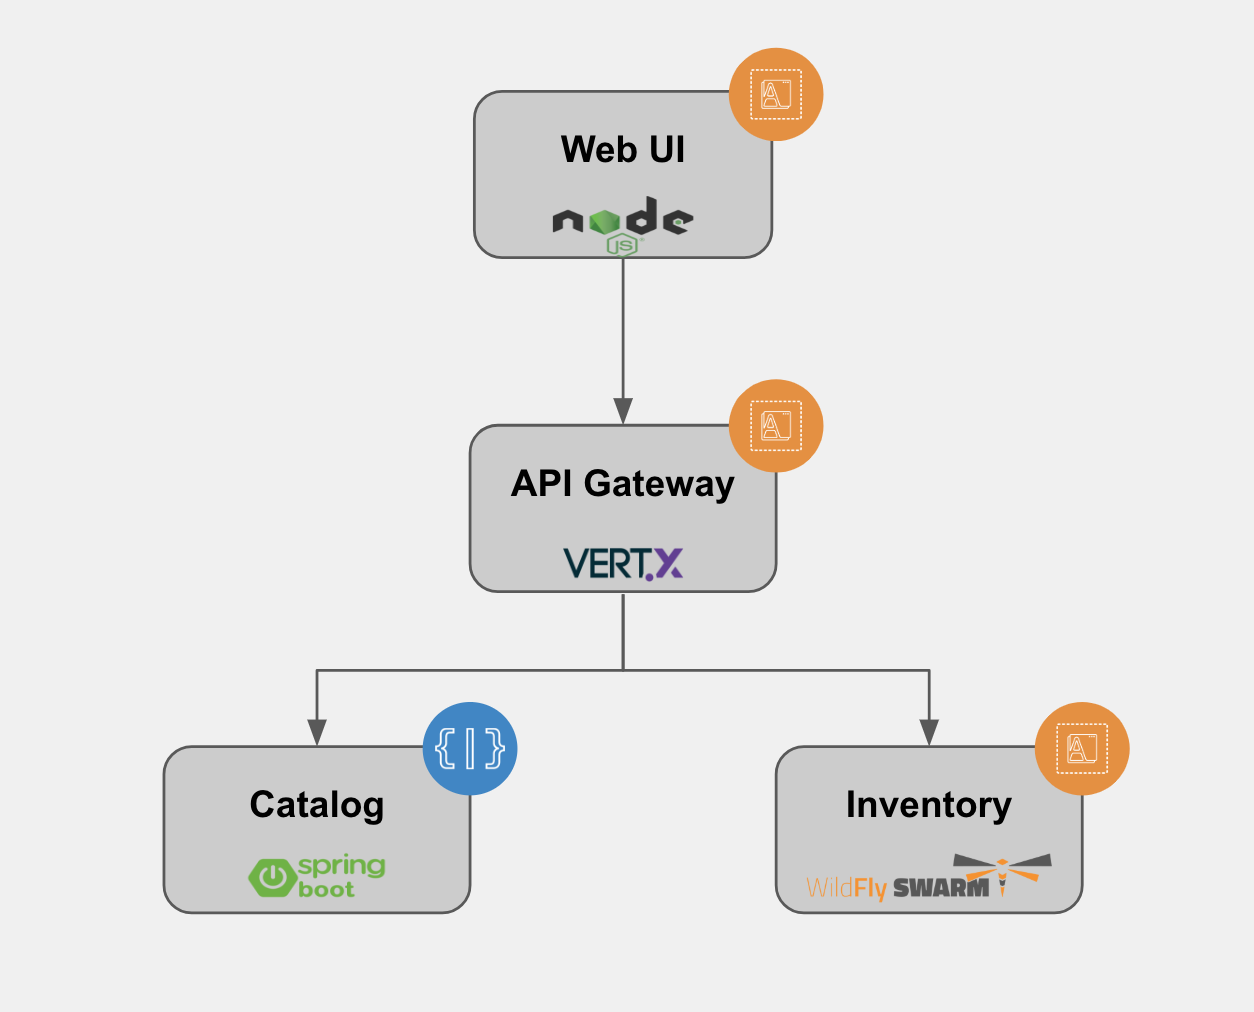
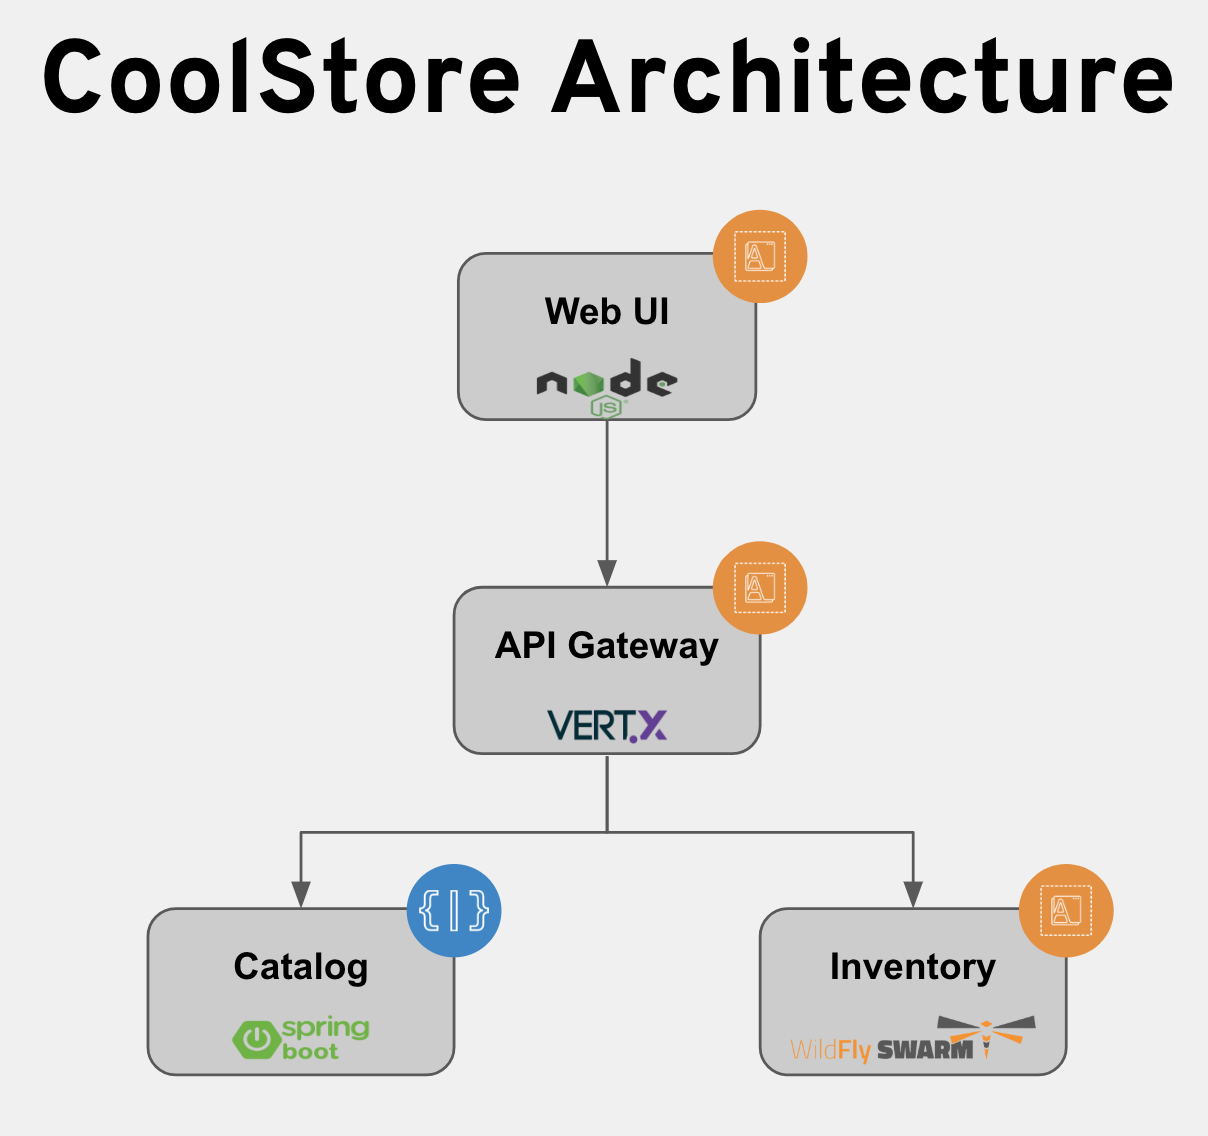
Cleaning Up and taking into account Alex Groom's comments

Changed region(s): [[0.0306, 0.0306, 0.9801, 0.9496], [0.6126, 0.6739, 0.9189, 0.9496]]

diff --git a/deploy-gateway.md b/deploy-gateway.md
@@ -4,11 +4,11 @@ As explained in the introduction at the core of the Cool Store Portal architectu
 
 As we have done previously for the sake of saving time we're going to deploy our 'Gateway' service instead of coding it. But before we actually deploy the service we're going to explain briefly some concepts.
 
+![CoolStore Architecture]({% image_path coolstore-arch-gateway.png %}){:width="400px"}
+
 #### Technology
 
 Our **'API Gateway'** service needed to be easy to scale, light and responsive, these are some of the reasons why we have implemented it as a Vert.x verticle.
-
-> One of the runtimes supported by Red Hat Openshift is Vert.x. 
 
 #### What is Eclipse Vert.x?
 
@@ -46,15 +46,7 @@ Inventory service by building the WildFly Swam uber-jar from source code (build 
 
 Vert.x service discovery integrates into OpenShift service discovery via OpenShift REST API and imports available services to make them available to the Vert.x application. Security in OpenShift comes first and therefore accessing the OpenShift REST API requires the user or the system (Vert.x in this case) to have sufficient permissions to do so. All containers in OpenShift run with a `serviceaccount` (by default, the project `default` service account) which can be used to grant permissions for operations like accessing the OpenShift REST API. You can read more about service accounts in the [OpenShift Documentation]({{OPENSHIFT_DOCS_BASE}}/dev_guide/service_accounts.html) and this [blog post](https://blog.openshift.com/understanding-service-accounts-sccs/#_service_accounts)
 
-Let's grant permission to the API Gateway to be able to access OpenShift REST API and discover services.
-
-> Make sure to replace the project name with your own unique project name
-
-~~~shell
-$ oc policy add-role-to-user view -n {{COOLSTORE_PROJECT}}-{{OPENSHIFT_USER}} -z default
-~~~
-
-Next commands are going to deploy our Inventory service. Please be sure you're at {{COOLSTORE_PROJECT}}-{{OPENSHIFT_USER}} before executing them.
+Next commands are going to deploy our API Gateway service.
 
 * **Name:** gateway
 * **S2I runtime:** redhat-openjdk18-openshift
@@ -83,7 +75,7 @@ gateway     gateway-{{COOLSTORE_PROJECT}}-{{OPENSHIFT_USER}}.roadshow.openshifta
 
 Copy the route url for API Gateway and verify the API Gateway service works using `curl`:
 
-> The route urls in your project would be different from the ones in this lab guide! Use the ones from yor project.
+> The route urls in your project would be different from the ones in this lab guide! Use the ones from your project.
 
 ~~~shell
 $ curl http://{{API_GATEWAY_ROUTE_HOST}}/api/products

diff --git a/deploy-webui.md b/deploy-webui.md
@@ -2,7 +2,7 @@
 
 In this lab you will learn about Node.js and will deploy the Node.js and Angular-based web front+end for the CoolStore online shop which uses the API Gateway services you deployed in previous labs. 
 
-![API Gateway Pattern]({% image_path coolstore-arch.png %}){:width="400px"}
+![CoolStore Architecture]({% image_path coolstore-arch-webui.png %}){:width="400px"}
 
 #### What is Node.js?
 
@@ -22,7 +22,7 @@ The source code for the the Node.js Web front-end is available in this Git repos
 
 Use the OpenShift CLI command to create a new build and deployment for the Web component:
 
-> Feeling adventurous? Build and deploy the Web front-end via the OpenShift Web Console instead. To give you a hint, start by clicking on **Add to project** within the **{{COOLSTORE_PROJECT}}-{{OPENSHIFT_USER}}** project and pick **JavaScript** and then **Node.js** in the service catalog. Don't forget to click on **advanced options** and set **Context Dir** to `web-nodejs` which is the sub-folder of the Git repository where the source code for Web resides.
+> Feeling adventurous? Build and deploy the Web front-end via the OpenShift Web Console instead. To give you a hint, start by clicking on **Catalog** in the left side menu within the **{{COOLSTORE_PROJECT}}-{{OPENSHIFT_USER}}** project then under **Languages** tab, pick **JavaScript** and then **Node.js**. Don't forget to click on **advanced options** and set **Context Dir** to `web-nodejs` which is the sub-folder of the Git repository where the source code for Web resides.
 
 ~~~shell
 $ oc new-app nodejs:8~{{LABS_GIT_REPO}} \
@@ -30,7 +30,7 @@ $ oc new-app nodejs:8~{{LABS_GIT_REPO}} \
         --name=web 
 ~~~
 
-The `--context-dir` option specifies the sub-directly of the Git repository which contains the source code for the application to be built and deployed. The `--labels` allows assigning arbitrary key-value labels to the application objects in order to make it easier to find them later on when you have many applications in the same project.
+The `--context-dir` option specifies the sub-directly of the Git repository which contains the source code for the application to be built and deployed.
 
 A build gets created and starts building the Node.js Web UI container image. You can see the build logs using OpenShift Web Console or OpenShift CLI:
 

diff --git a/deploy-inventory.md b/deploy-inventory.md
@@ -4,6 +4,8 @@ As explained in the introduction we need an Inventory service as part of the Coo
 
 We're going to save time by deploying the 'inventory' service instead of coding it. But before we actually deploy the service we're going to explain briefly some concepts.
 
+![CoolStore Architecture]({% image_path coolstore-arch-inventory.png %}){:width="400px"}
+
 #### Technology
 
 Our **'Inventory'** service has been implemented as a Java EE Microprofile application mainly using JAX-RS (REST) and JPA (persistency). Red Hat Openshift provides several runtimes to build services using Node.js, Java, C#, etc. Given that the service is implemented using Java EE Microprofile technology we're going to use  WildFly Swarm runtime. 
@@ -47,7 +49,7 @@ OpenShift [Source-to-Image (S2I)]({{OPENSHIFT_DOCS_BASE}}/architecture/core_conc
 feature can be used to build a container image from a git repository. OpenShift S2I uses the [supported OpenJDK container image](https://access.redhat.com/documentation/en-us/red_hat_jboss_middleware_for_openshift/3/html/red_hat_java_s2i_for_openshift) to build the final container image of the 
 Inventory service by building the WildFly Swam uber-jar from source code (build strategy **'Source'**), using Maven, to the OpenShift platform.
 
-Next commands are going to deploy our Inventory service. Please be sure you're at {{COOLSTORE_PROJECT}}-{{OPENSHIFT_USER}} before executing them.
+Next commands are going to deploy our Inventory service.
 
 * **Name:** inventory
 * **S2I runtime:** redhat-openjdk18-openshift
@@ -74,7 +76,7 @@ inventory   inventory-{{COOLSTORE_PROJECT}}-{{OPENSHIFT_USER}}.roadshow.openshif
 
 Copy the route url for the Inventory service and verify the API Gateway service works using `curl`:
 
-> The route urls in your project would be different from the ones in this lab guide! Use the one from yor project.
+> The route urls in your project would be different from the ones in this lab guide! Use the one from your project.
 
 ~~~shell
 $ curl http://{{INVENTORY_ROUTE_HOST}}/api/inventory/329299

diff --git a/create-catalog-che.md b/create-catalog-che.md
@@ -2,6 +2,8 @@
 
 In this lab you will learn about Spring Boot and how you can build microservices using Spring Boot and JBoss technologies. During this lab, you will create a REST API for the Catalog service in order to provide a list of products for the CoolStore online shop.
 
+![CoolStore Architecture]({% image_path coolstore-arch-catalog.png %}){:width="200px"}
+
 #### What is Spring Boot?
 
 Spring Boot is an opinionated framework that makes it easy to create stand-alone Spring based applications with an embedded web containers such as Tomcat (or JBoss Web Server), Jetty and Undertow that you can run directly on the JVM using `java -jar`. Spring Boot also allows producing a war file that can be deployed on stand-alone web containers.
@@ -268,7 +270,7 @@ catalog     catalog-{{COOLSTORE_PROJECT}}-{{OPENSHIFT_USER}}.roadshow.openshifta
 
 Copy the route url for the Catalog service and verify the Catalog service works using `curl`:
 
-> The route urls in your project would be different from the ones in this lab guide! Use the ones from yor project.
+> The route urls in your project would be different from the ones in this lab guide! Use the ones from your project.
 
 ~~~shell
 $ curl http://{{CATALOG_ROUTE_HOST}}/api/catalog

diff --git a/catalog-config.md b/catalog-config.md
@@ -118,12 +118,11 @@ and discovery is a privilege that needs to be granted to containers in each proj
 
 Since you do want Spring Boot to discover the config maps inside the `{{COOLSTORE_PROJECT}}-{{OPENSHIFT_USER}}` project, you 
 need to grant permission to the Spring Boot service account to access the OpenShift REST API and find the 
-config maps. However you have done this already in previous labs and no need to grant permission again. 
+config maps.
 
-> For the record, you can grant permission to the default service account in your project using this 
-command: 
-> 
->     $ oc policy add-role-to-user view -n {{COOLSTORE_PROJECT}}-{{OPENSHIFT_USER}} -z default
+~~~shell
+$ oc policy add-role-to-user view -n {{COOLSTORE_PROJECT}}-{{OPENSHIFT_USER}} -z default
+~~~
 
 Delete the Catalog container to make it start again and look for the config maps:
 

diff --git a/README.md b/README.md
@@ -6,14 +6,11 @@ Agenda
 ===
 * Introduction to Cloud-Native apps
 * Building services with Spring Boot
-* Building Java EE services with WildFly Swarm
-* Building Reactive Services with Vert.x
-* Monitoring Application Health
-* Fault Tolerance and Service Resilience
-* Configuration Management 
-* Continuous Delivery 
+* Configuration Management
+* Deploying Java EE services with WildFly Swarm
+* Deploying Reactive Services with Vert.x
+* Deploying Reactive Services with Node.js
 * Debugging Services
-
 
 Install Workshop Infrastructure
 ===
